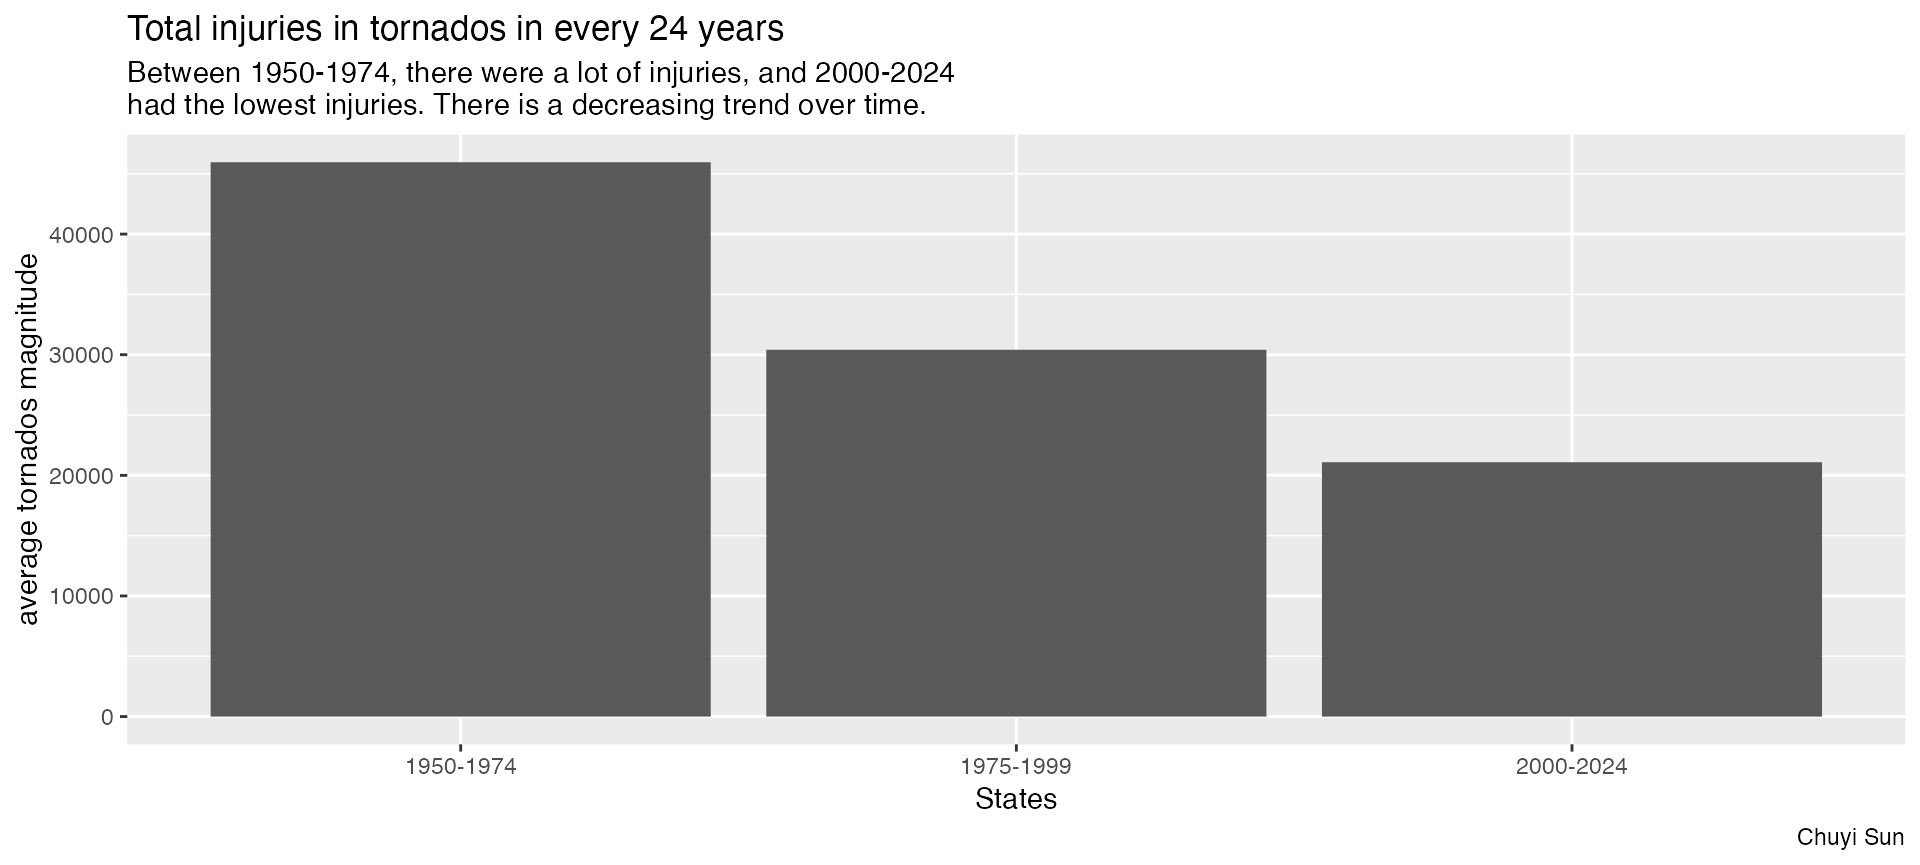
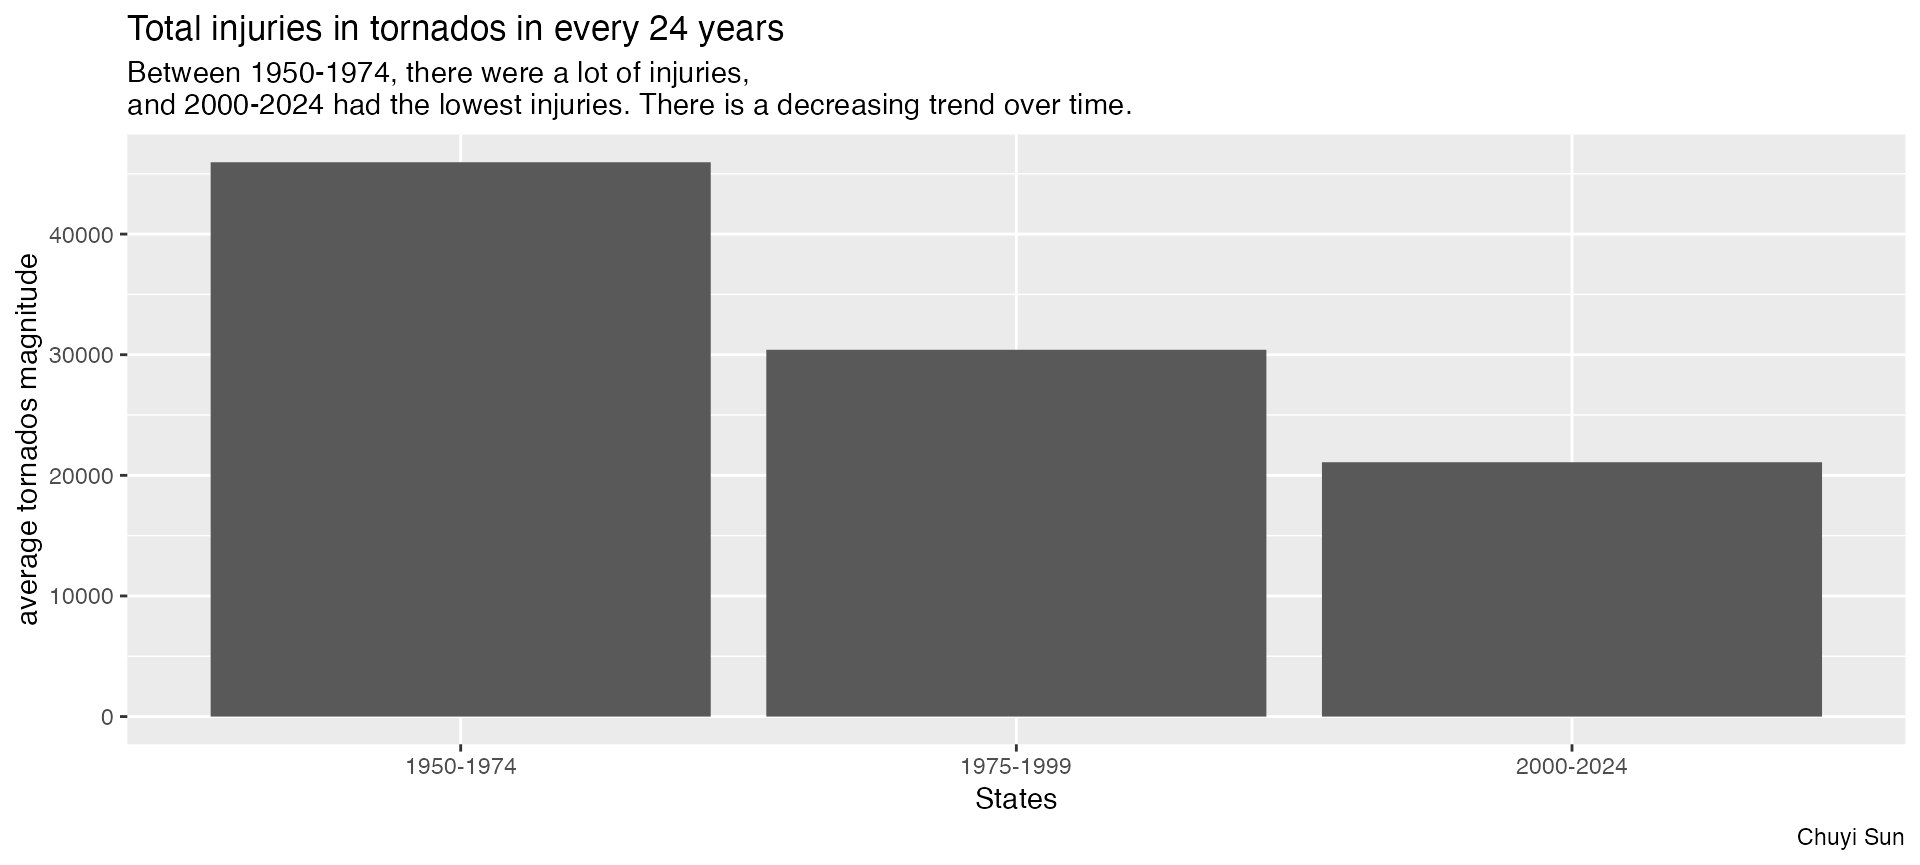
new

Changed region(s): [[0.0938, 0.0624, 0.5938, 0.1561]]

diff --git a/docs/articles/Example_analysis.html b/docs/articles/Example_analysis.html
@@ -276,8 +276,8 @@
 <span>  <span class="fu"><a href="https://ggplot2.tidyverse.org/reference/ggplot.html" class="external-link">ggplot</a></span><span class="op">(</span><span class="fu"><a href="https://ggplot2.tidyverse.org/reference/aes.html" class="external-link">aes</a></span><span class="op">(</span>x<span class="op">=</span><span class="va">stage</span>, y<span class="op">=</span><span class="va">stage_sum</span><span class="op">)</span><span class="op">)</span><span class="op">+</span></span>
 <span>  <span class="fu"><a href="https://ggplot2.tidyverse.org/reference/geom_bar.html" class="external-link">geom_bar</a></span><span class="op">(</span>stat<span class="op">=</span><span class="st">"identity"</span><span class="op">)</span><span class="op">+</span></span>
 <span>  <span class="fu"><a href="https://ggplot2.tidyverse.org/reference/labs.html" class="external-link">labs</a></span><span class="op">(</span>title <span class="op">=</span> <span class="st">"Total injuries in tornados in every 24 years"</span>,</span>
-<span>       subtitle <span class="op">=</span> <span class="st">"Between 1950-1974, there were a lot of injuries, and 2000-2024 </span></span>
-<span><span class="st">had the lowest injuries. There is a decreasing trend over time."</span>, x<span class="op">=</span><span class="st">"States"</span>, y<span class="op">=</span><span class="st">"average tornados magnitude"</span>, caption <span class="op">=</span> <span class="st">"Chuyi Sun"</span><span class="op">)</span></span></code></pre></div>
+<span>       subtitle <span class="op">=</span> <span class="st">"Between 1950-1974, there were a lot of injuries, </span></span>
+<span><span class="st">and 2000-2024 had the lowest injuries. There is a decreasing trend over time."</span>, x<span class="op">=</span><span class="st">"States"</span>, y<span class="op">=</span><span class="st">"average tornados magnitude"</span>, caption <span class="op">=</span> <span class="st">"Chuyi Sun"</span><span class="op">)</span></span></code></pre></div>
 <p><img src="Example_analysis_files/figure-html/unnamed-chunk-8-1.png" width="960"></p>
 </div>
 <div class="section level2">
